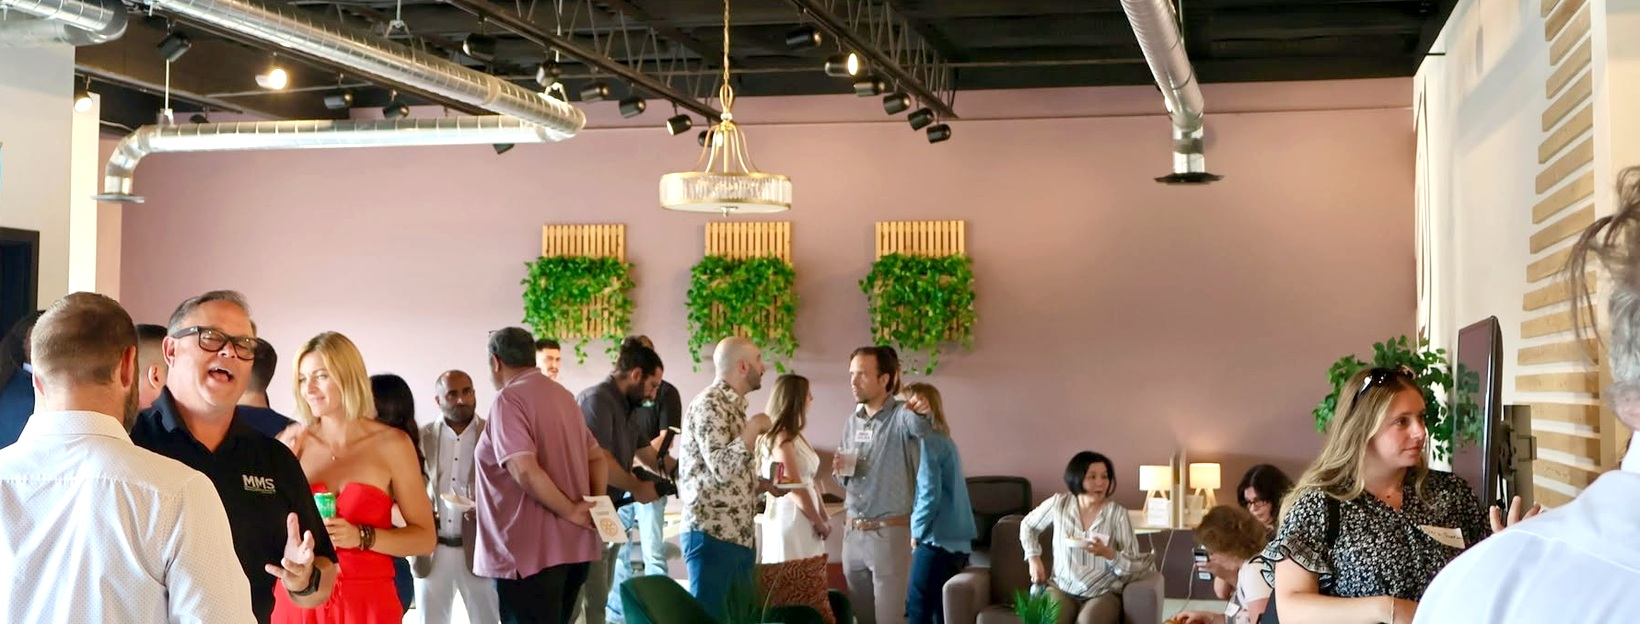
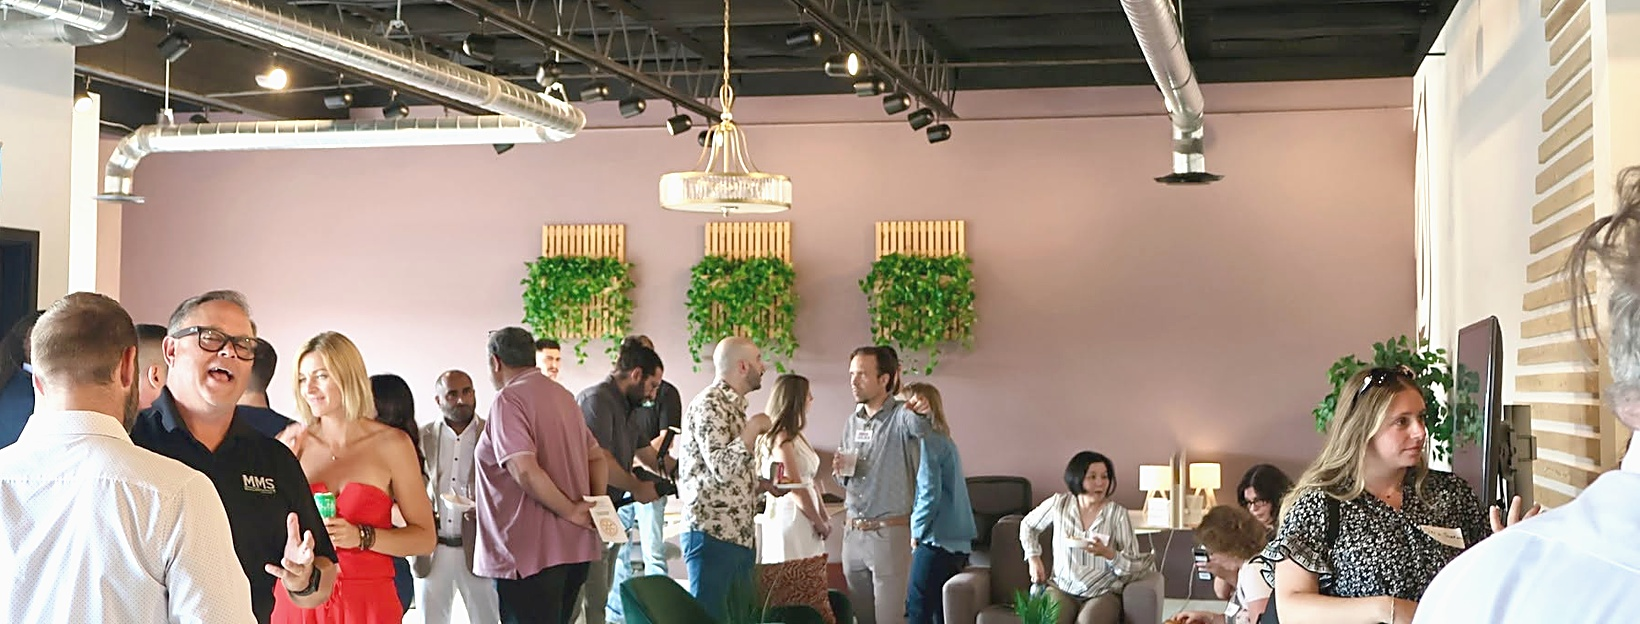
Facebook cover: bright, airy editorial grade
Claude-Session: https://claude.ai/code/session_018FS3dSG8LGvce1L6SkbsmJ

diff --git a/tools/social/template-fb-cover-top.html b/tools/social/template-fb-cover-top.html
@@ -7,7 +7,7 @@
   html,body{width:100vw;height:100vh;overflow:hidden;}
   body{position:relative;background:#111;}
   .photo{position:absolute;inset:0;background-image:url('{{PHOTO}}');background-size:cover;background-position:{{PHOTO_POS}};}
-  .overlay{position:absolute;inset:0;background:linear-gradient(to bottom,rgba(0,0,0,0.45) 0%,rgba(0,0,0,0.22) 30%,rgba(0,0,0,0) 48%);}
+  .overlay{position:absolute;inset:0;background:radial-gradient(ellipse 48% 70% at 24% 8%,rgba(0,0,0,0.42) 0%,rgba(0,0,0,0.20) 45%,rgba(0,0,0,0) 75%);}
   /* Facebook crops the sides on mobile: keep everything inside the centre 68% */
   .logo{position:absolute;top:9vh;left:18vw;height:5.2vw;display:block;}
   .headline{position:absolute;left:25.5vw;top:9vh;font-size:3.4vw;line-height:var(--leading-tight);color:var(--color-white);margin:0;}
